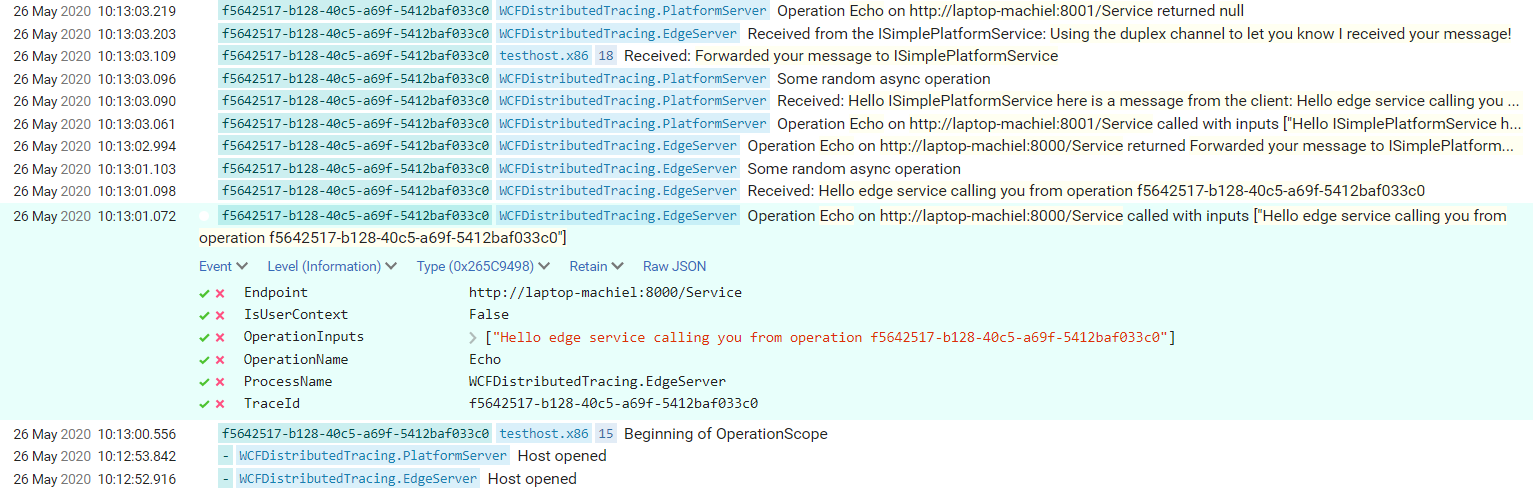
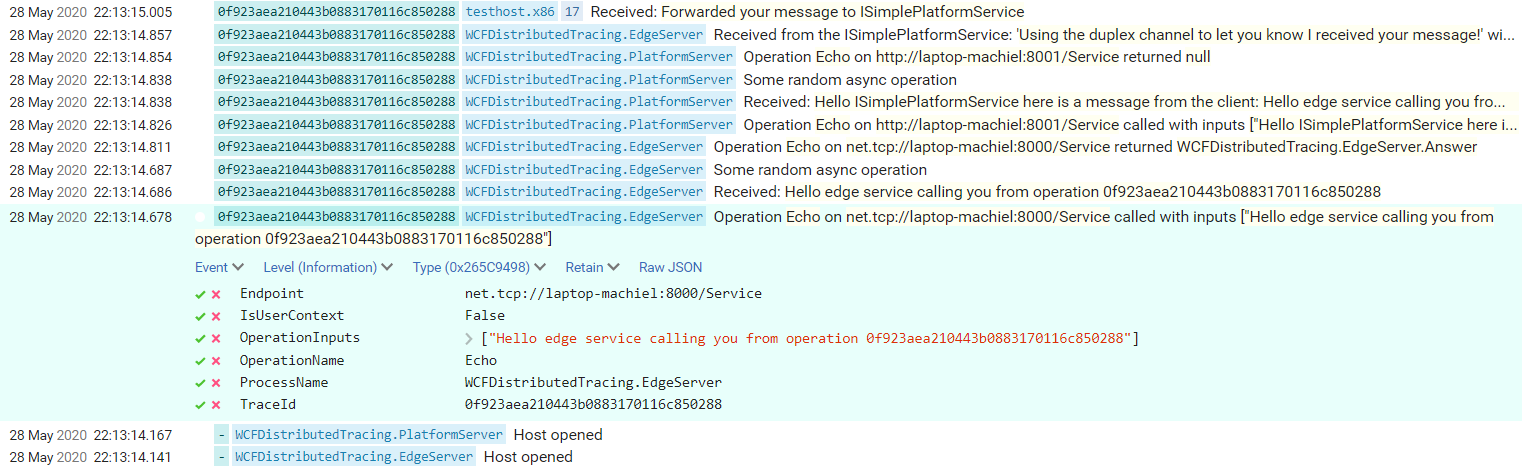
TraceId as 16 byte string Added SpanId

Changed region(s): [[0.0, 0.0, 0.9882, 1.0]]

diff --git a/WCFDistributedTracing/DistributedOperationContext.cs b/WCFDistributedTracing/DistributedOperationContext.cs
@@ -1,5 +1,5 @@
 using System;
-using System.Collections.Generic;
+using System.Linq;
 using System.Threading;
 
 namespace WCFDistributedTracing
@@ -8,11 +8,13 @@ namespace WCFDistributedTracing
     {
         private static readonly AsyncLocal<DistributedOperationContext> _current = new AsyncLocal<DistributedOperationContext>();
 
-        public Guid TraceId { get; set; }
+        public string TraceId { get; set; }
+        public string SpanId { get; set; }
 
         public DistributedOperationContext()
         {
-            TraceId = Guid.NewGuid();
+            TraceId = NewTraceId();
+            SpanId = NewSpanId();
         }
 
         public static DistributedOperationContext Current
@@ -20,5 +22,8 @@ namespace WCFDistributedTracing
             get => _current.Value;
             set => _current.Value = value;
         }
+
+        public string NewTraceId() => Guid.NewGuid().ToString("N");
+        public string NewSpanId() => Guid.NewGuid().ToString("N").Substring(0, 8);
     }
 }

diff --git a/WCFDistributedTracing.xUnitTest/TraceIdShouldBeCorrectInSeq.cs b/WCFDistributedTracing.xUnitTest/TraceIdShouldBeCorrectInSeq.cs
@@ -42,8 +42,6 @@ namespace WCFDistributedTracing.Test
                 StartService($"{solutionPath}/WCFDistributedTracing.EdgeServer/{buildPath}/WCFDistributedTracing.EdgeServer.exe"),
                 StartService($"{solutionPath}/WCFDistributedTracing.PlatformServer/{buildPath}/WCFDistributedTracing.PlatformServer.exe")
             };
-
-            Log.Information(Directory.GetCurrentDirectory());
         }
 
         private Process StartService(string app)
@@ -79,7 +77,7 @@ namespace WCFDistributedTracing.Test
             var result = await proxy.Echo($"Hello edge service");
             Log.Information("Received: {Answer}", result);
 
-            Assert.NotEqual(Guid.Empty, result.TraceId);
+            Assert.NotEqual(default, result.TraceId);
 
             (proxy as IClientChannel)?.Close();
         }

diff --git a/WCFDistributedTracing/Serilog/ContextEnricher.cs b/WCFDistributedTracing/Serilog/ContextEnricher.cs
@@ -21,7 +21,7 @@ namespace WCFDistributedTracing.Serilog
         {
             if (logEvent == null)
                 throw new ArgumentNullException(nameof(logEvent));
-            var property = new LogEventProperty(TraceId, new ScalarValue(DistributedOperationContext.Current?.TraceId.ToString() ?? "-"));
+            var property = new LogEventProperty(TraceId, new ScalarValue(DistributedOperationContext.Current?.TraceId ?? "-"));
             logEvent.AddPropertyIfAbsent(property);
             var userContextProperty = new LogEventProperty("IsUserContext", new ScalarValue(OperationContext.Current?.IsUserContext.ToString() ?? "-"));
             logEvent.AddPropertyIfAbsent(userContextProperty);

diff --git a/WCFDistributedTracing/WCF/TracingInspector.cs b/WCFDistributedTracing/WCF/TracingInspector.cs
@@ -14,10 +14,10 @@ namespace UtilsLogging.WCF
         {
             var context = DistributedOperationContext.Current ?? new DistributedOperationContext();
 
-            var header = new MessageHeader<DistributedOperationContext>(context)
-                .GetUntypedHeader(ContextHeader, string.Empty);
+            var header = new MessageHeader<DistributedOperationContext>(context);
+            var untypedHeader = header.GetUntypedHeader(ContextHeader, string.Empty);
 
-            request.Headers.Add(header);
+            request.Headers.Add(untypedHeader);
 
             return context;
         }

diff --git a/WCFDistributedTracing.EdgeServer/SimpleEdgeService.cs b/WCFDistributedTracing.EdgeServer/SimpleEdgeService.cs
@@ -30,7 +30,8 @@ namespace WCFDistributedTracing.EdgeServer
                 TraceId = DistributedOperationContext.Current.TraceId
             };
         }
-        public async Task EchoClient(string message, Guid traceId)
+
+        public async Task EchoClient(string message, string traceId)
         {
             await Task.Run(() => Log.Information($"Received from the {nameof(ISimplePlatformService)}: '{{Message}}' with {{TraceId}}", message, traceId));
         }

diff --git a/WCFDistributedTracing.PlatformServer/ISimplePlatformServiceCallbackContract.cs b/WCFDistributedTracing.PlatformServer/ISimplePlatformServiceCallbackContract.cs
@@ -1,5 +1,4 @@
-using System;
-using System.ServiceModel;
+using System.ServiceModel;
 using System.Threading.Tasks;
 
 namespace WCFDistributedTracing.PlatformServer
@@ -7,6 +6,6 @@ namespace WCFDistributedTracing.PlatformServer
     public interface ISimplePlatformServiceCallbackContract
     {
         [OperationContract(IsOneWay = true)]
-        Task EchoClient(string message, Guid traceId);
+        Task EchoClient(string message, string traceId);
     }
 }

diff --git a/WCFDistributedTracing.EdgeServer/Answer.cs b/WCFDistributedTracing.EdgeServer/Answer.cs
@@ -1,10 +1,11 @@
 using System;
+using System.Diagnostics;
 
 namespace WCFDistributedTracing.EdgeServer
 {
     public class Answer
     {
         public string Message { get; set; }
-        public Guid TraceId { get; set; }
+        public string TraceId { get; set; }
     }
 }
